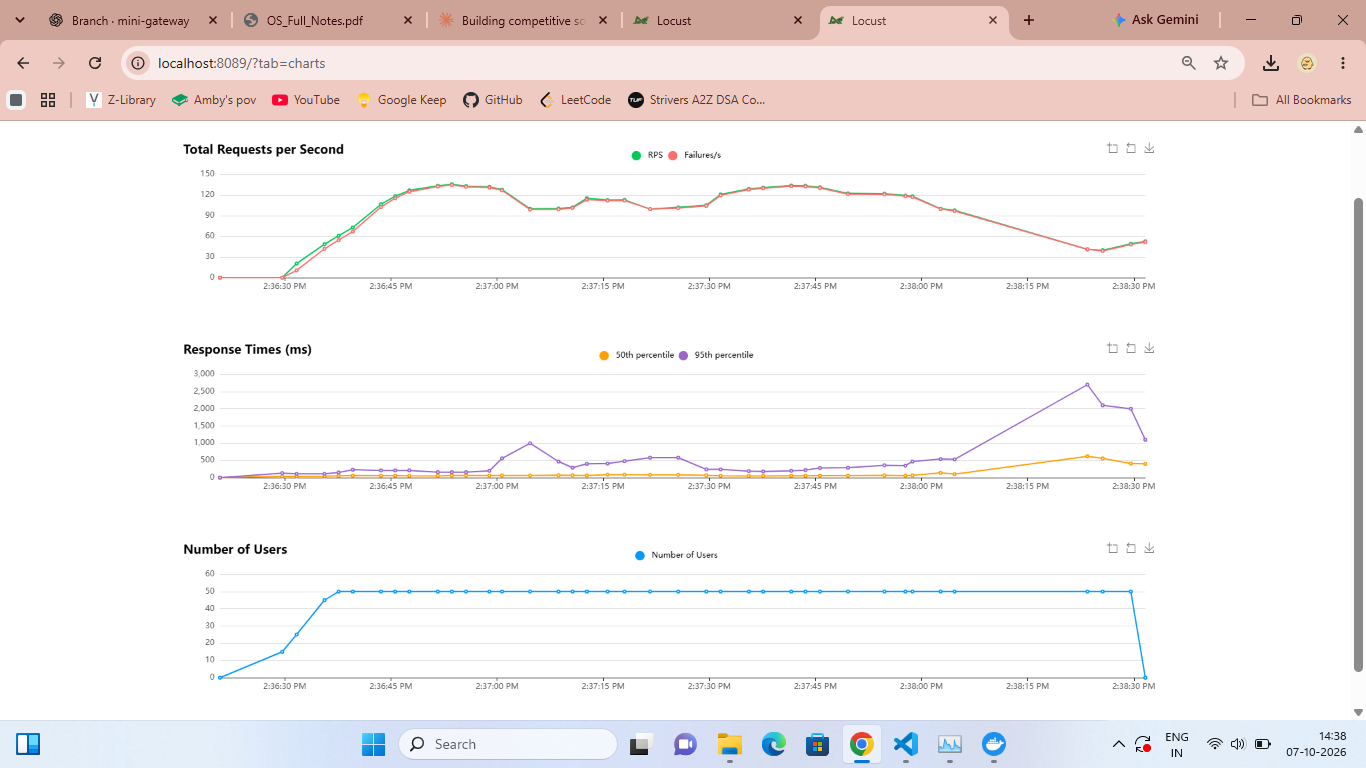
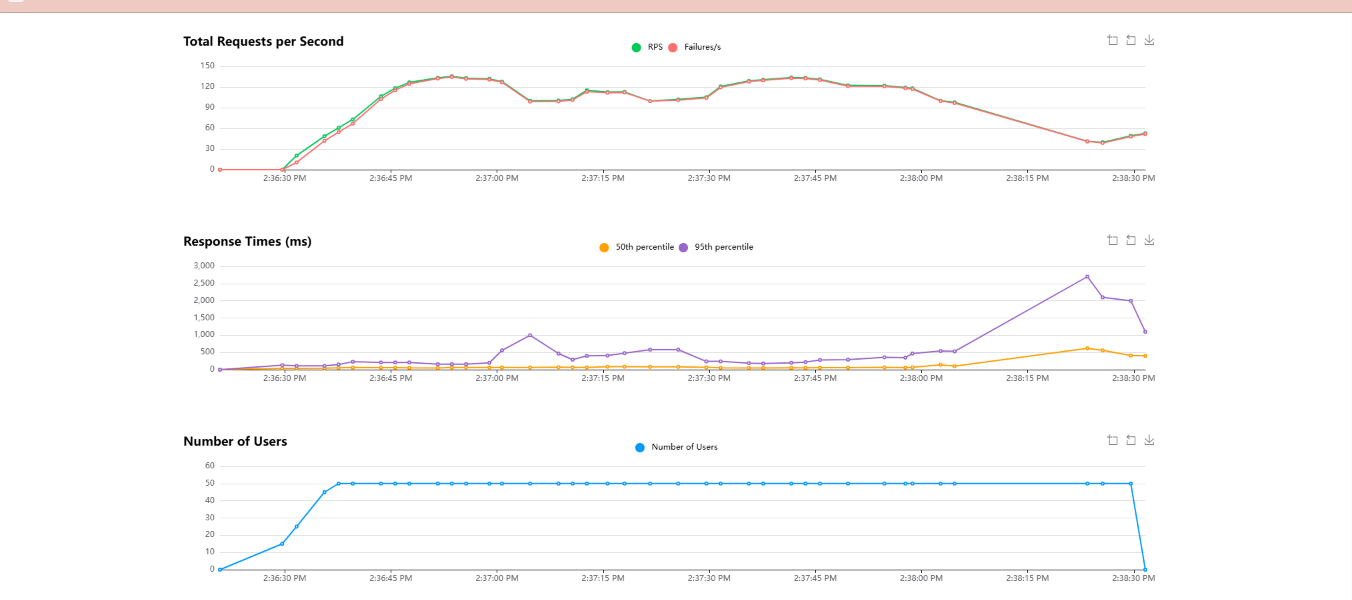
multi instance gateway

diff --git a/locustfile.py b/locustfile.py
@@ -1,21 +1,41 @@
+import random
 from locust import HttpUser, task, between
 
 
 class GatewayUser(HttpUser):
-    wait_time = between(0.1, 0.5)
+    wait_time = between(0.5, 1)
     token = None
 
     def on_start(self):
+        username = f"user{random.randint(1, 200)}"
+
         response = self.client.post(
-            "/login?username=asha&password=pass123"
+            f"/login?username={username}&password=pass123"
         )
+
+        if response.status_code != 200 or not response.text:
+            raise RuntimeError(
+                f"Login failed — status={response.status_code}, "
+                f"body={response.text!r}. "
+                "Check that `docker compose ps` shows the gateway running."
+            )
+
         self.token = response.json().get("access_token")
 
     @task
     def get_orders(self):
-        self.client.get(
-            "/api/orders",
+        with self.client.get(
+            "/api/orders/",
             headers={
                 "Authorization": f"Bearer {self.token}"
             },
-        )
+            catch_response=True,
+        ) as response:
+
+            if response.status_code == 429:
+                response.success()
+
+            elif response.status_code != 200:
+                response.failure(
+                    f"unexpected status {response.status_code}"
+                )

diff --git a/gateway/auth.py b/gateway/auth.py
@@ -5,8 +5,8 @@ SECRET_KEY = "change-this-to-something-random-later"
 ALGORITHM = "HS256"
 
 FAKE_USERS = {
-    "asha": {"password": "pass123", "user_id": "1"},
-    "ravi": {"password": "pass456", "user_id": "2"},
+    f"user{i}": {"password": "pass123", "user_id": str(i)}
+    for i in range(1, 201)
 }
 
 def create_token(user_id: str) -> str:
